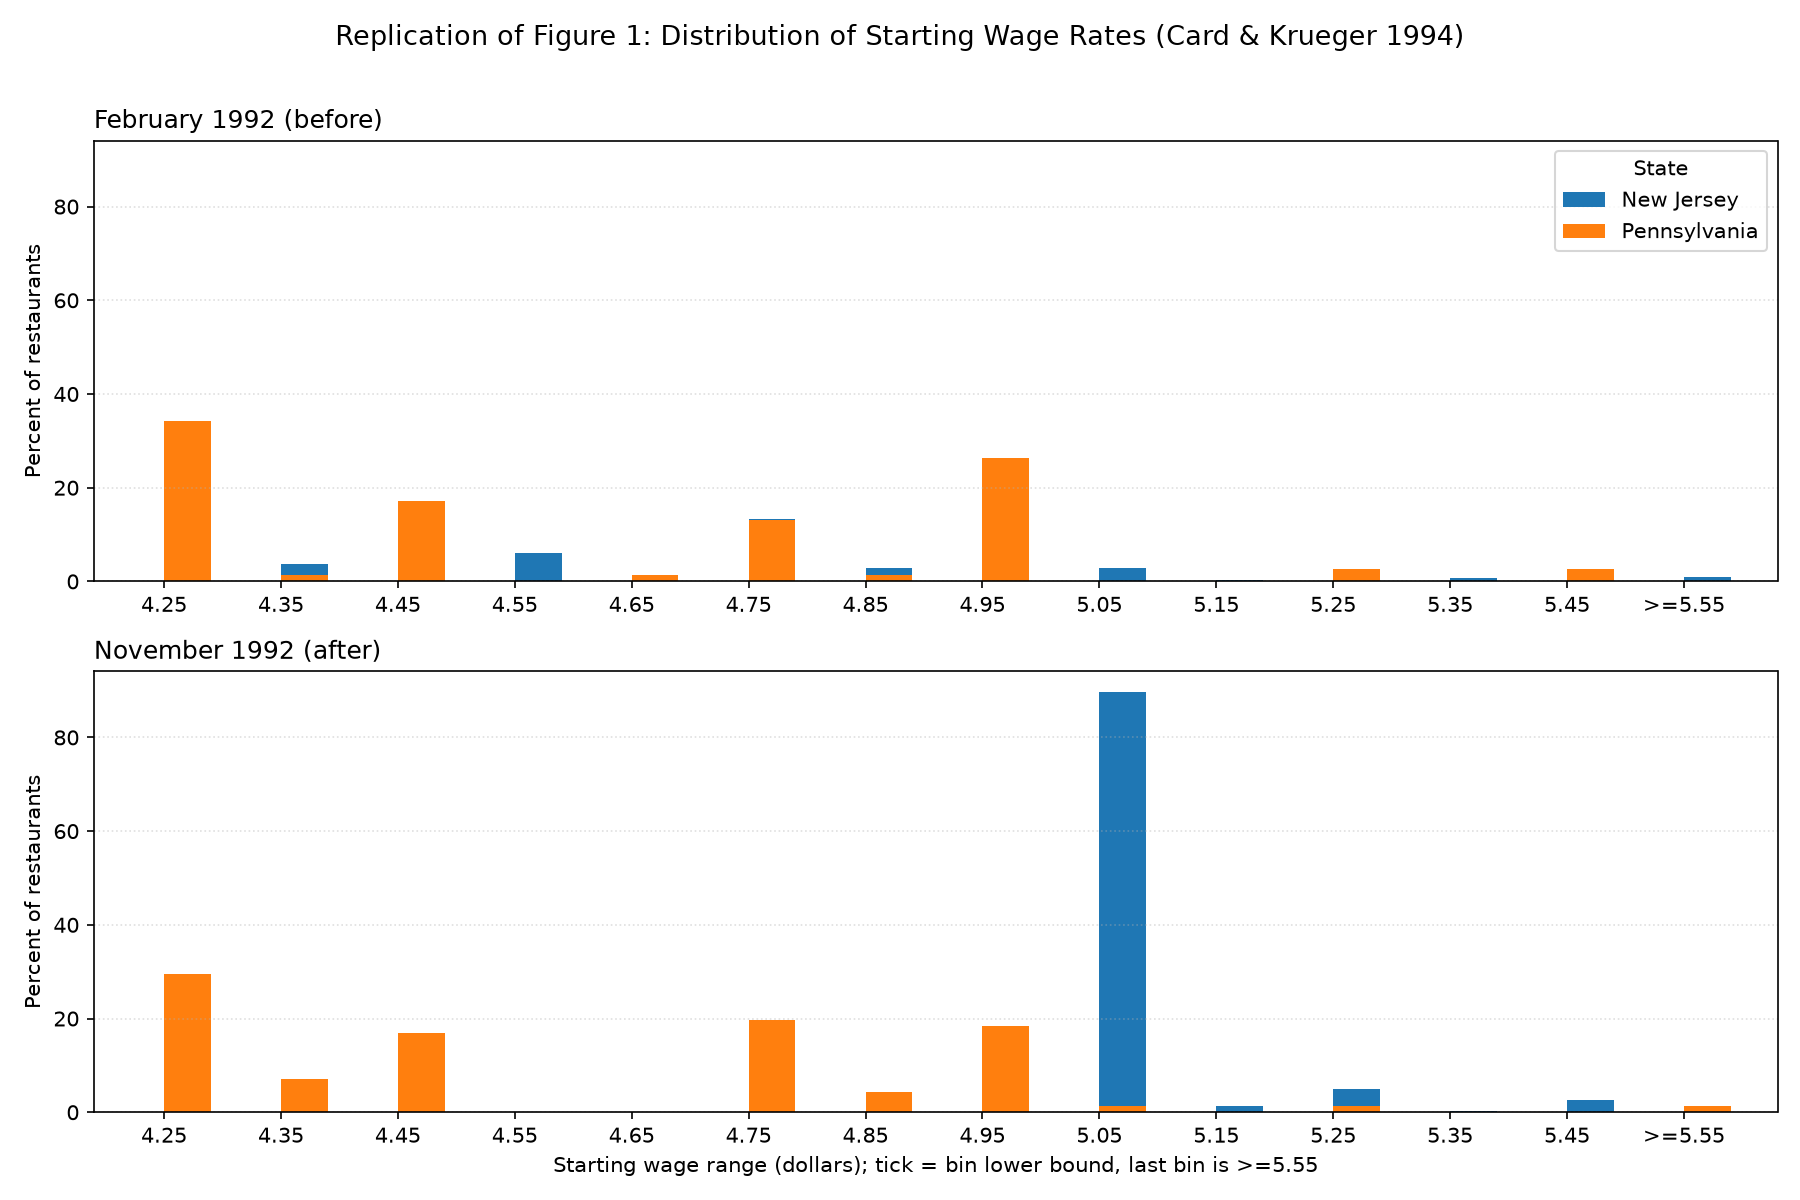
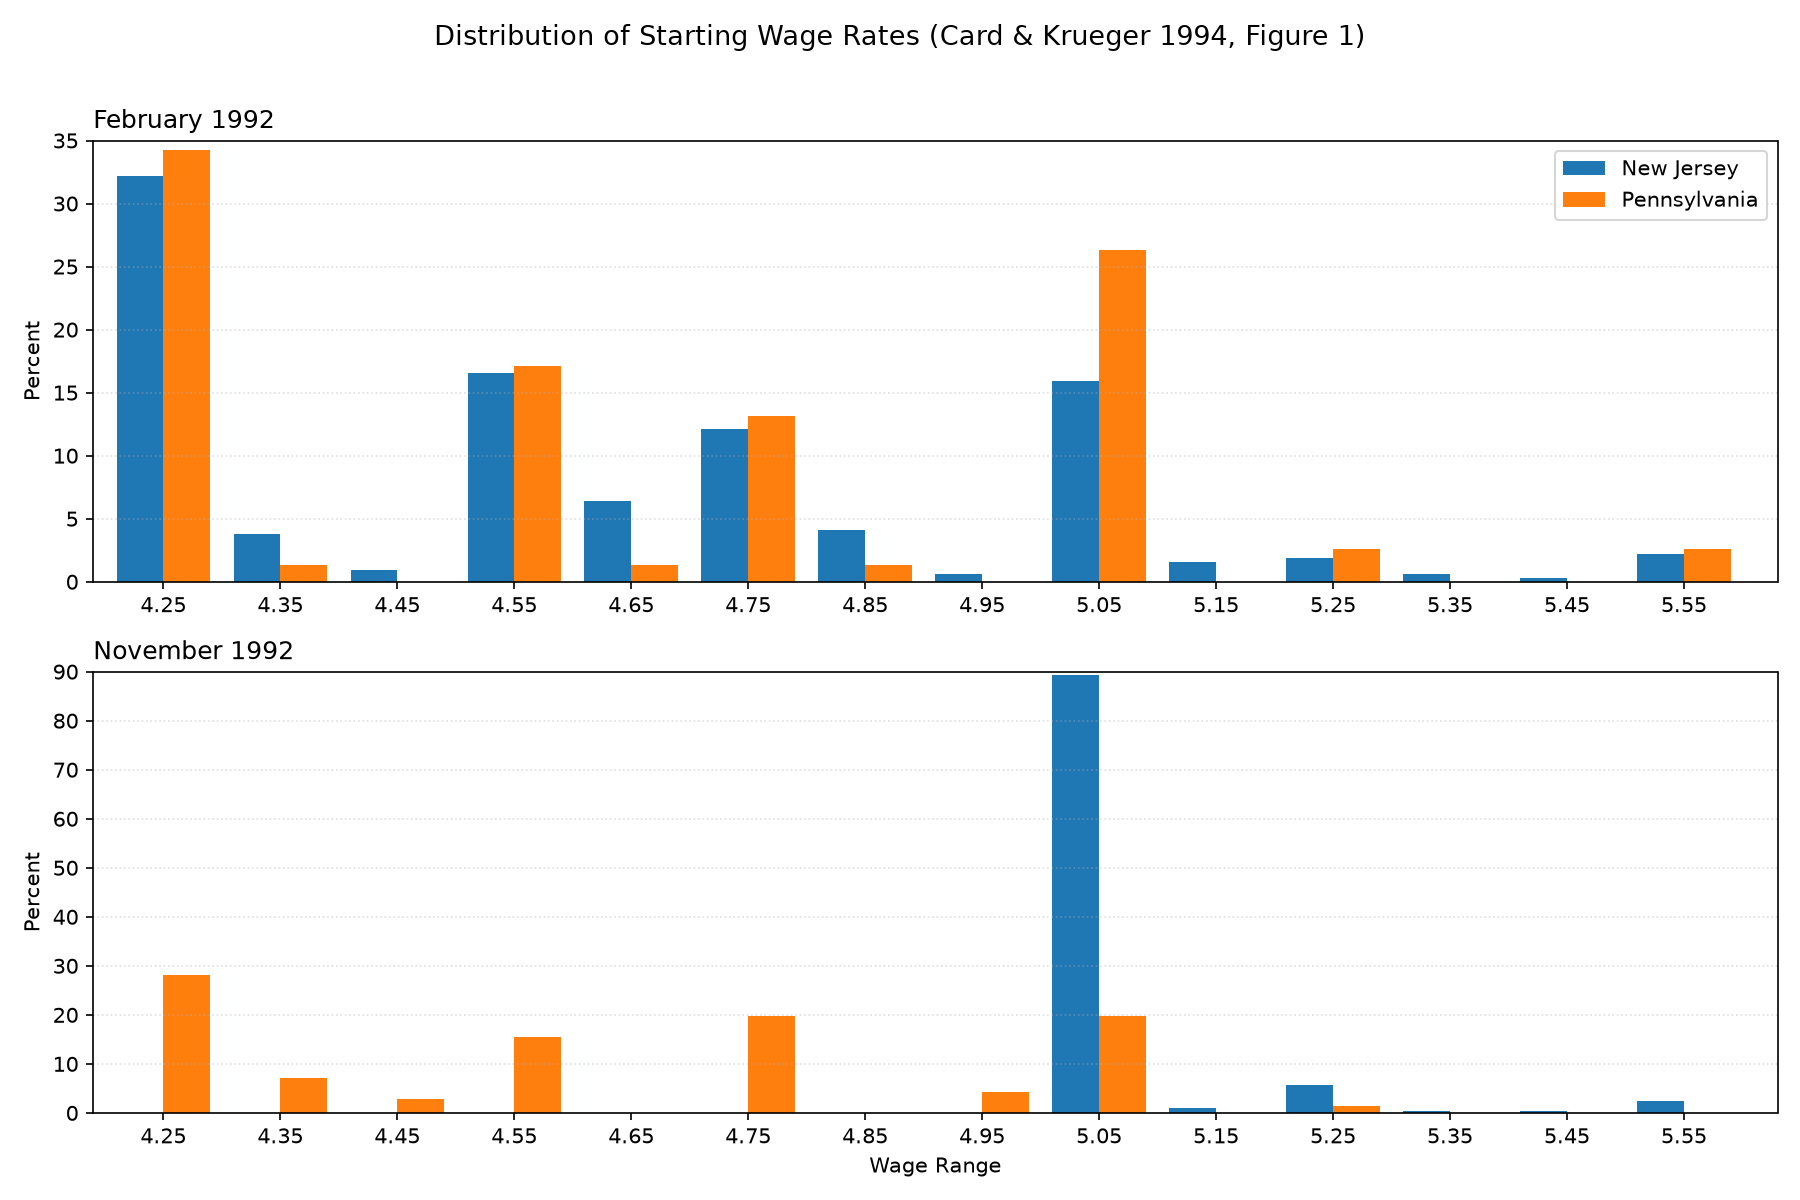
Fix Figure 1 wage-distribution binning
Center each 10-cent bin on the x-axis tick label (4.25..5.55) instead of
using the tick as the bin's left edge. This puts the $4.50 wage cluster in
the 4.55-centered bin (NJ 16.56%, PA 17.11%) as in the original figure.
Drop the off-axis '>=5.60' open-top bin so the axis ends at 5.55 like the
paper; the few wages at or above $5.60 are excluded and reported in the
notes.

diff --git a/scripts/replicate_figure1.py b/scripts/replicate_figure1.py
@@ -10,16 +10,21 @@ over starting-wage bins:
 The y-axis is the percent of restaurants. Each state-period is normalized by
 its own number of valid wage observations, so a store is kept whenever its
 starting wage is present, regardless of whether its employment data is valid.
+Each panel is drawn on its own y-axis scale (0-35 percent before, 0-90 percent
+after), mirroring the original figure's separate axis ranges.
 
-Binning (a replication choice -- the scan does not state the original rule):
+Binning (centered on the x-axis tick labels, matching the original figure's
+10-cent interval spacing):
 
-    10-cent bins  [4.25, 4.35), [4.35, 4.45), ..., [5.45, 5.55),
-    plus an open top bin [5.55, inf) for wages at or above $5.55.
+    10-cent bins centered at 4.25, 4.35, ..., 5.55, i.e.
+    [4.20, 4.30), [4.30, 4.40), ..., [5.50, 5.60).
 
-Bins are left-closed and right-open. Wages are binned on integer cents to
-avoid floating-point edge errors. Missing wages are excluded (never filled
-with zero). No valid wage is silently dropped: values below $4.25 are flagged
-and values at or above $5.55 fall into the open top bin.
+Centering matters: a $4.50 wage falls in the [4.50, 4.60) bin whose center and
+tick label is 4.55, not in a [4.45, 4.55) bin labeled 4.45. Bins are
+left-closed and right-open. Wages are binned on integer cents to avoid
+floating-point edge errors. Missing wages are excluded (never filled with
+zero). The original axis ends at 5.55, so the few wages at or above $5.60 fall
+off the right edge and are excluded (reported in the notes, never silently).
 
 Outputs:
     outputs/figure1_wage_distribution.png
@@ -49,19 +54,32 @@ PNG_PATH = os.path.join(OUTPUT_DIR, "figure1_wage_distribution.png")
 CSV_PATH = os.path.join(OUTPUT_DIR, "figure1_wage_distribution.csv")
 NOTES_PATH = os.path.join(OUTPUT_DIR, "figure1_notes.md")
 
-# Left edges of the fixed 10-cent bins, in cents: 425, 435, ..., 545.
-BIN_LEFT_CENTS = list(range(425, 555, 10))
-OPEN_TOP_CENTS = 555          # start of the open top bin [5.55, inf)
-N_BINS = len(BIN_LEFT_CENTS) + 1  # 13 fixed bins + 1 open top bin = 14
+# Bin centers in cents (the x-axis tick labels in the original figure):
+# 425, 435, ..., 555, i.e. $4.25, $4.35, ..., $5.55. Each 10-cent bin is
+# centered on its tick label, so bin i covers [center - 5, center + 5) cents;
+# the left edges are therefore 420, 430, ..., 550. A wage is assigned to the
+# bin whose center it falls around (e.g. $4.50 -> the 4.55-centered bin).
+# The original figure's axis ends at 5.55, so there is NO open top bin: the
+# last bin is [5.50, 5.60) centered at 5.55, and the few wages at or above
+# $5.60 fall off the right edge (excluded, reported in the notes).
+BIN_CENTER_CENTS = list(range(425, 565, 10))       # 425, 435, ..., 555
+BIN_LEFT_CENTS = [c - 5 for c in BIN_CENTER_CENTS]  # 420, 430, ..., 550
+OPEN_TOP_CENTS = 560          # right edge of the last centered bin [5.50, 5.60)
+N_BINS = len(BIN_CENTER_CENTS)  # 14 bins, matching the original axis
 
 STATE_ORDER = [(1, "NJ", "New Jersey"), (0, "PA", "Pennsylvania")]
 STATE_COLOR = {1: "#1f77b4", 0: "#ff7f0e"}  # NJ blue, PA orange
 STATE_NAME = {1: "New Jersey", 0: "Pennsylvania"}
 
 PERIODS = [
-    ("before", "WAGE_ST", "February 1992 (before)"),
-    ("after", "WAGE_ST2", "November 1992 (after)"),
+    ("before", "WAGE_ST", "February 1992"),
+    ("after", "WAGE_ST2", "November 1992"),
 ]
+
+# Per-panel y-axis limits, mirroring the original figure: the "before"
+# distribution peaks near 35 percent while the "after" distribution peaks near
+# 90 percent, so each panel is drawn on its own scale rather than shared.
+Y_LIMITS = {"before": (0, 35), "after": (0, 90)}
 
 
 def wage_to_cents(value):
@@ -70,26 +88,25 @@ def wage_to_cents(value):
 
 
 def bin_index(cents):
-    """Return the 0-based bin index for a wage in cents, or None if < 4.25."""
+    """Return the 0-based bin index for a wage in cents, or None if outside
+    the plotted range [4.20, 5.60)."""
     if cents < BIN_LEFT_CENTS[0]:
         return None
-    return min((cents - BIN_LEFT_CENTS[0]) // 10, N_BINS - 1)
+    if cents >= OPEN_TOP_CENTS:
+        return None
+    return (cents - BIN_LEFT_CENTS[0]) // 10
 
 
 def bin_bounds(i):
-    """Return (lower, upper) dollar strings for bin i (upper empty if open)."""
-    if i < len(BIN_LEFT_CENTS):
-        lower = BIN_LEFT_CENTS[i] / 100.0
-        upper = (BIN_LEFT_CENTS[i] + 10) / 100.0
-        return f"{lower:.2f}", f"{upper:.2f}"
-    return f"{OPEN_TOP_CENTS / 100.0:.2f}", ""  # empty upper = +infinity
+    """Return (lower, upper) dollar strings for bin i."""
+    lower = BIN_LEFT_CENTS[i] / 100.0
+    upper = (BIN_LEFT_CENTS[i] + 10) / 100.0
+    return f"{lower:.2f}", f"{upper:.2f}"
 
 
 def bin_label(i):
-    """Return the axis label for bin i."""
-    if i < len(BIN_LEFT_CENTS):
-        return f"{BIN_LEFT_CENTS[i] / 100.0:.2f}"
-    return ">=5.55"
+    """Return the axis label for bin i (the bin center)."""
+    return f"{BIN_CENTER_CENTS[i] / 100.0:.2f}"
 
 
 def collect_wages():
@@ -122,17 +139,22 @@ def main():
             denom = len(values)
             counts = [0] * N_BINS
             below = []
+            above = []
             for w in values:
                 cents = wage_to_cents(w)
                 bi = bin_index(cents)
                 if bi is None:
-                    below.append(w)
+                    if cents < BIN_LEFT_CENTS[0]:
+                        below.append(w)
+                    else:
+                        above.append(w)
                 else:
                     counts[bi] += 1
             stats[(period, state)] = {
                 "counts": counts,
                 "denom": denom,
                 "below": below,
+                "above": above,
                 "min": min(values) if values else None,
                 "max": max(values) if values else None,
             }
@@ -164,11 +186,11 @@ def main():
     x = np.arange(N_BINS)
     width = 0.4
     fig, axes = plt.subplots(
-        2, 1, figsize=(12, 8), sharex=False, sharey=True
+        2, 1, figsize=(12, 8), sharex=False, sharey=False
     )
 
     for ax, (period, _col, title) in zip(axes, PERIODS):
-        for state, code, name in STATE_ORDER:
+        for state, _abbrev, _name in STATE_ORDER:
             s = stats[(period, state)]
             denom = s["denom"]
             pct = [
@@ -176,7 +198,9 @@ def main():
                 for cnt in s["counts"]
             ]
             # NJ at x - width/2, PA at x + width/2 (same width: no overlap).
-            offset = -width / 2 if code == 1 else width / 2
+            # `state` is the integer code (1 = NJ, 0 = PA), NOT the "NJ"/"PA"
+            # string, so the two bars land on opposite sides of each bin.
+            offset = -width / 2 if state == 1 else width / 2
             ax.bar(
                 x + offset,
                 pct,
@@ -185,24 +209,21 @@ def main():
                 label=STATE_NAME[state],
             )
         ax.set_title(title, loc="left")
-        ax.set_ylabel("Percent of restaurants")
+        ax.set_ylabel("Percent")
+        ax.set_ylim(*Y_LIMITS[period])
         ax.grid(axis="y", linestyle=":", alpha=0.4)
 
-    axes[0].legend(title="State", loc="upper right")
+    axes[0].legend(loc="upper right")
     # Show the wage-interval labels on BOTH panels. Ticks mark each bin's
-    # lower bound; the final bin is open (>=5.55).
+    # center (4.25, 4.35, ..., 5.55); the last bin is [5.50, 5.60).
     tick_labels = [bin_label(i) for i in range(N_BINS)]
     for ax in axes:
         ax.set_xticks(x)
         ax.set_xticklabels(tick_labels)
         ax.set_xlim(-0.6, N_BINS - 0.4 + 0.2)
-    axes[1].set_xlabel(
-        "Starting wage range (dollars); tick = bin lower bound, "
-        "last bin is >=5.55"
-    )
+    axes[1].set_xlabel("Wage Range")
     fig.suptitle(
-        "Replication of Figure 1: Distribution of Starting Wage Rates "
-        "(Card & Krueger 1994)",
+        "Distribution of Starting Wage Rates (Card & Krueger 1994, Figure 1)",
         fontsize=13,
     )
     fig.tight_layout(rect=[0, 0, 1, 0.97])
@@ -231,21 +252,20 @@ def main():
         "wage observations (not a common or employment-based total)."
     )
     notes.append("")
-    notes.append("## Binning (a replication choice)\n")
+    notes.append("## Binning (centered on the x-axis tick labels)\n")
     notes.append(
         "- The original scan marks the x-axis at 4.25, 4.35, ..., 5.55 but "
-        "does not state the bin boundaries or the tail rule, so the exact "
-        "original binning is NOT confirmed here."
+        "does not state the bin boundaries or the tail rule in text."
     )
     notes.append(
-        "- This replication uses 10-cent bins [4.25, 4.35), [4.35, 4.45), "
-        "..., [5.45, 5.55), left-closed and right-open, plus an open top bin "
-        "[5.55, +infinity)."
+        "- This replication centers each 10-cent bin on its tick label, so "
+        "the bins are [4.20, 4.30), [4.30, 4.40), ..., [5.50, 5.60), "
+        "left-closed and right-open."
     )
     notes.append(
-        "- A wage of exactly $5.05 falls in the [5.05, 5.15) bin (left-closed). "
-        "This is a share of an interval, not a 'wage that rounds to 5.05' "
-        "count; the two are not conflated."
+        "- Centering matters: the $4.50 cluster (a tall ~16-17% bar in each "
+        "state) falls in the [4.50, 4.60) bin whose center and label is 4.55, "
+        "not in a [4.45, 4.55) bin labeled 4.45."
     )
     notes.append(
         "- Wages are binned on integer cents (round(wage * 100)) to avoid "
@@ -254,30 +274,31 @@ def main():
     notes.append("")
     notes.append("## Range / tail check\n")
     notes.append(
-        "- No observed starting wage is below $4.25, so nothing is dropped on "
+        "- No observed starting wage is below $4.20, so nothing is dropped on "
         "the low end."
     )
     notes.append(
-        "- The data extend above the last 10-cent bin, so the open top bin "
-        "[5.55, +infinity) captures those values rather than dropping them. "
-        "Wage minima/maxima per state-period:"
+        "- The original axis ends at 5.55, so wages at or above $5.60 fall off "
+        "the right edge and are excluded (not drawn as an open bin). Wage "
+        "minima/maxima and excluded counts per state-period:"
     )
     notes.append("")
-    notes.append("| Period | State | n | min | max |")
-    notes.append("|---|---|---|---|---|")
+    notes.append("| Period | State | n | min | max | excluded >=5.60 |")
+    notes.append("|---|---|---|---|---|---|")
     for period, _col, title in PERIODS:
         for state, code, name in STATE_ORDER:
             s = stats[(period, state)]
             mn = f"{s['min']:.2f}" if s["min"] is not None else ""
             mx = f"{s['max']:.2f}" if s["max"] is not None else ""
             notes.append(
-                f"| {title} | {name} | {s['denom']} | {mn} | {mx} |"
+                f"| {title} | {name} | {s['denom']} | {mn} | {mx} | "
+                f"{len(s['above'])} |"
             )
     notes.append("")
     notes.append("## Percent sums\n")
     notes.append(
-        "- Percentages should sum to about 100 per state-period (float "
-        "rounding may give 99.99/100.01)."
+        "- Percentages sum to just under 100 per state-period because the few "
+        "wages at or above $5.60 (off the original's right edge) are excluded."
     )
     notes.append("")
     notes.append("| Period | State | sum of percents |")
@@ -288,10 +309,27 @@ def main():
             total = 100.0 * sum(s["counts"]) / s["denom"] if s["denom"] else 0.0
             notes.append(f"| {period} | {name} | {total:.4f} |")
     notes.append("")
+    notes.append("## Layout\n")
+    notes.append(
+        "- Two stacked panels (February 1992 on top, November 1992 on the "
+        "bottom), each with side-by-side bars for New Jersey and "
+        "Pennsylvania."
+    )
+    notes.append(
+        "- Each panel has its own y-axis scale, mirroring the original figure: "
+        "0-35 percent for February 1992 and 0-90 percent for November 1992."
+    )
+    notes.append(
+        "- Axis labels follow the original: y-axis 'Percent', x-axis 'Wage "
+        "Range', and x-axis ticks at the bin centers 4.25, 4.35, ..., 5.55 "
+        "(the axis ends at 5.55, matching the original)."
+    )
+    notes.append("")
     notes.append("## Differences from the original figure\n")
     notes.append(
-        "- The open top bin is labeled '>=5.55' (the original only marks "
-        "'5.55'); this makes the tail treatment explicit."
+        "- Wages at or above $5.60 fall off the original's right edge and are "
+        "excluded (6 of 779 valid wage observations). These are reported in "
+        "'Range / tail check' above, never dropped silently."
     )
     notes.append(
         "- Bar colors, spacing, and layout are this replication's choices; "
@@ -310,9 +348,10 @@ def main():
             s = stats[(period, state)]
             total = 100.0 * sum(s["counts"]) / s["denom"] if s["denom"] else 0.0
             below = len(s["below"])
+            above = len(s["above"])
             print(
                 f"{period:6s} {name:11s} n={s['denom']:3d} "
-                f"sum%={total:.4f} below_4.25={below}"
+                f"sum%={total:.4f} below_4.20={below} above_5.60={above}"
             )
     print("Wrote", PNG_PATH)
     print("Wrote", CSV_PATH)

diff --git a/outputs/figure1_notes.md b/outputs/figure1_notes.md
@@ -8,37 +8,43 @@ Distribution of starting wages, New Jersey vs. Pennsylvania. Two panels: Februar
 - Missing wages are excluded and are never filled with zero.
 - The denominator for a state-period is its own count of valid wage observations (not a common or employment-based total).
 
-## Binning (a replication choice)
+## Binning (centered on the x-axis tick labels)
 
-- The original scan marks the x-axis at 4.25, 4.35, ..., 5.55 but does not state the bin boundaries or the tail rule, so the exact original binning is NOT confirmed here.
-- This replication uses 10-cent bins [4.25, 4.35), [4.35, 4.45), ..., [5.45, 5.55), left-closed and right-open, plus an open top bin [5.55, +infinity).
-- A wage of exactly $5.05 falls in the [5.05, 5.15) bin (left-closed). This is a share of an interval, not a 'wage that rounds to 5.05' count; the two are not conflated.
+- The original scan marks the x-axis at 4.25, 4.35, ..., 5.55 but does not state the bin boundaries or the tail rule in text.
+- This replication centers each 10-cent bin on its tick label, so the bins are [4.20, 4.30), [4.30, 4.40), ..., [5.50, 5.60), left-closed and right-open.
+- Centering matters: the $4.50 cluster (a tall ~16-17% bar in each state) falls in the [4.50, 4.60) bin whose center and label is 4.55, not in a [4.45, 4.55) bin labeled 4.45.
 - Wages are binned on integer cents (round(wage * 100)) to avoid floating-point boundary errors.
 
 ## Range / tail check
 
-- No observed starting wage is below $4.25, so nothing is dropped on the low end.
-- The data extend above the last 10-cent bin, so the open top bin [5.55, +infinity) captures those values rather than dropping them. Wage minima/maxima per state-period:
+- No observed starting wage is below $4.20, so nothing is dropped on the low end.
+- The original axis ends at 5.55, so wages at or above $5.60 fall off the right edge and are excluded (not drawn as an open bin). Wage minima/maxima and excluded counts per state-period:
 
-| Period | State | n | min | max |
-|---|---|---|---|---|
-| February 1992 (before) | New Jersey | 314 | 4.25 | 5.75 |
-| February 1992 (before) | Pennsylvania | 76 | 4.25 | 5.50 |
-| November 1992 (after) | New Jersey | 318 | 5.00 | 5.75 |
-| November 1992 (after) | Pennsylvania | 71 | 4.25 | 6.25 |
+| Period | State | n | min | max | excluded >=5.60 |
+|---|---|---|---|---|---|
+| February 1992 | New Jersey | 314 | 4.25 | 5.75 | 2 |
+| February 1992 | Pennsylvania | 76 | 4.25 | 5.50 | 0 |
+| November 1992 | New Jersey | 318 | 5.00 | 5.75 | 3 |
+| November 1992 | Pennsylvania | 71 | 4.25 | 6.25 | 1 |
 
 ## Percent sums
 
-- Percentages should sum to about 100 per state-period (float rounding may give 99.99/100.01).
+- Percentages sum to just under 100 per state-period because the few wages at or above $5.60 (off the original's right edge) are excluded.
 
 | Period | State | sum of percents |
 |---|---|---|
-| before | New Jersey | 100.0000 |
+| before | New Jersey | 99.3631 |
 | before | Pennsylvania | 100.0000 |
-| after | New Jersey | 100.0000 |
-| after | Pennsylvania | 100.0000 |
+| after | New Jersey | 99.0566 |
+| after | Pennsylvania | 98.5915 |
+
+## Layout
+
+- Two stacked panels (February 1992 on top, November 1992 on the bottom), each with side-by-side bars for New Jersey and Pennsylvania.
+- Each panel has its own y-axis scale, mirroring the original figure: 0-35 percent for February 1992 and 0-90 percent for November 1992.
+- Axis labels follow the original: y-axis 'Percent', x-axis 'Wage Range', and x-axis ticks at the bin centers 4.25, 4.35, ..., 5.55 (the axis ends at 5.55, matching the original).
 
 ## Differences from the original figure
 
-- The open top bin is labeled '>=5.55' (the original only marks '5.55'); this makes the tail treatment explicit.
+- Wages at or above $5.60 fall off the original's right edge and are excluded (6 of 779 valid wage observations). These are reported in 'Range / tail check' above, never dropped silently.
 - Bar colors, spacing, and layout are this replication's choices; the figure was not reverse-engineered from the original's bar heights.
